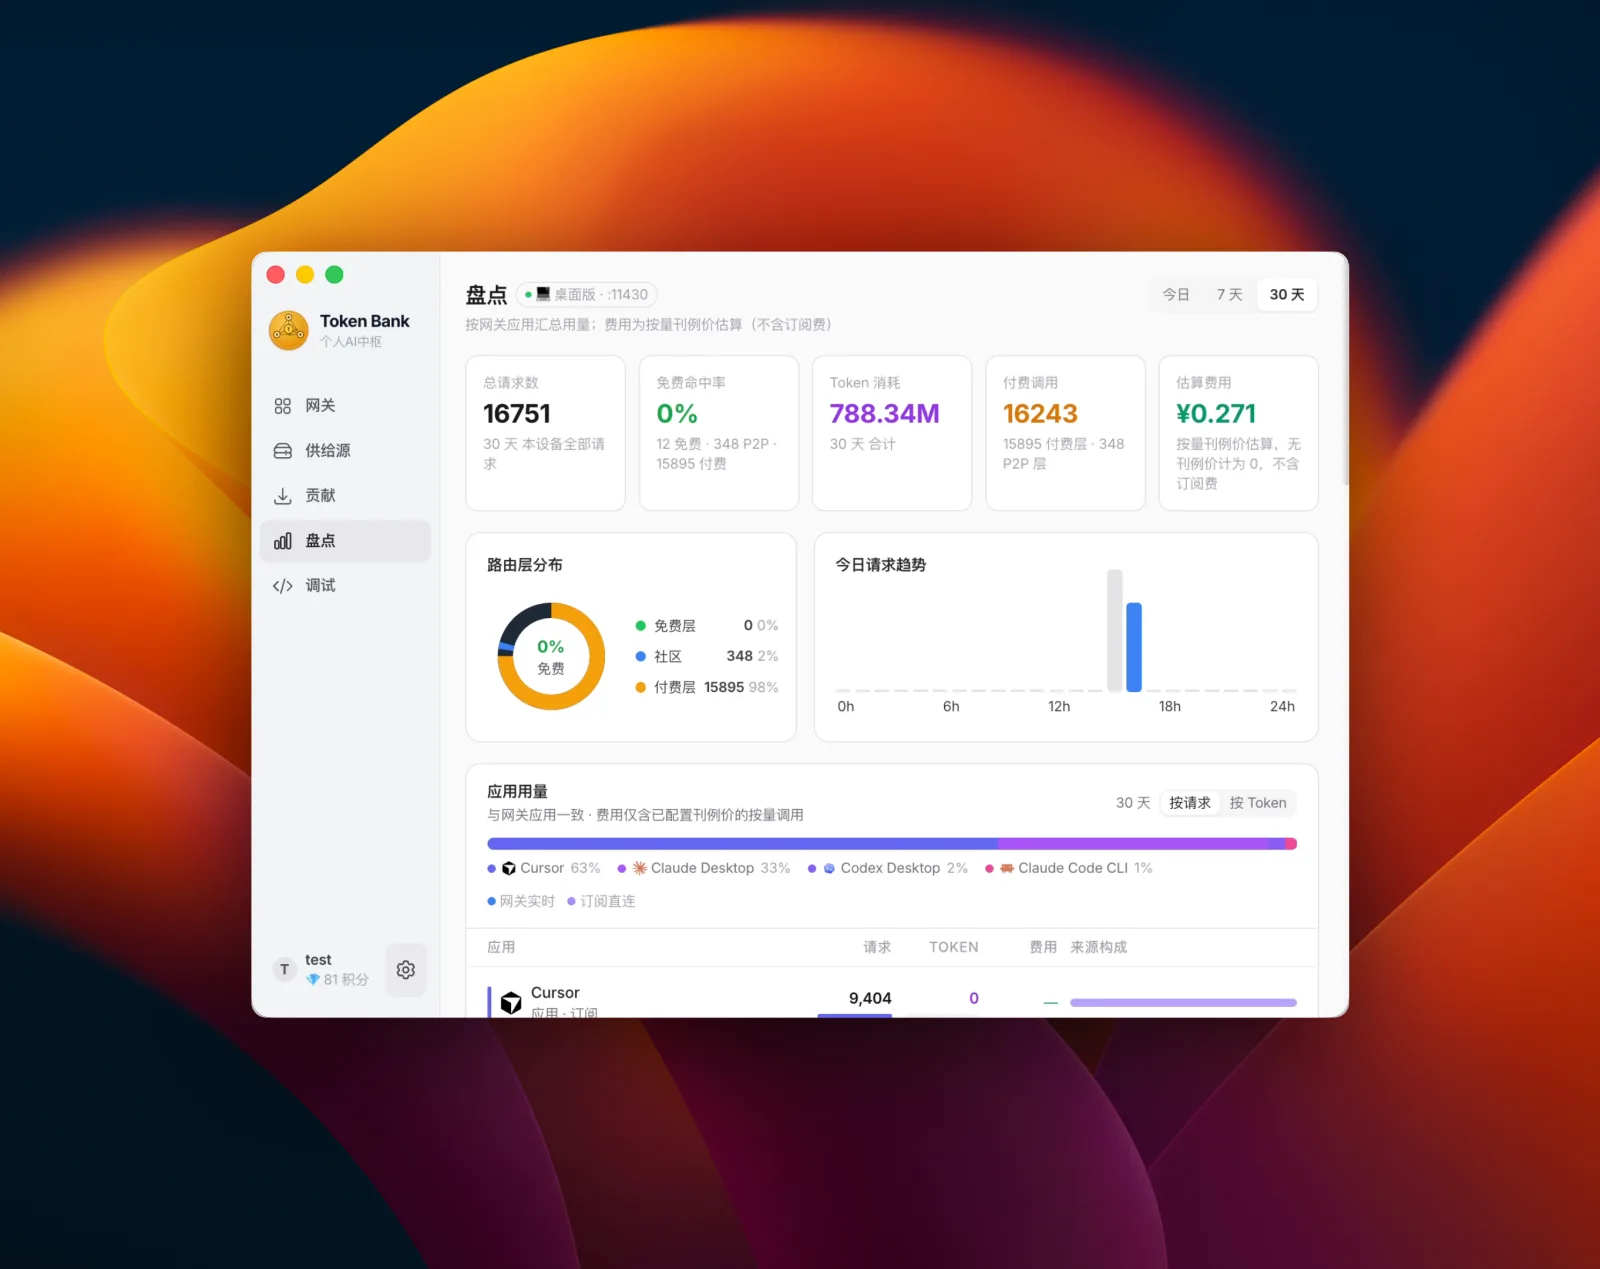
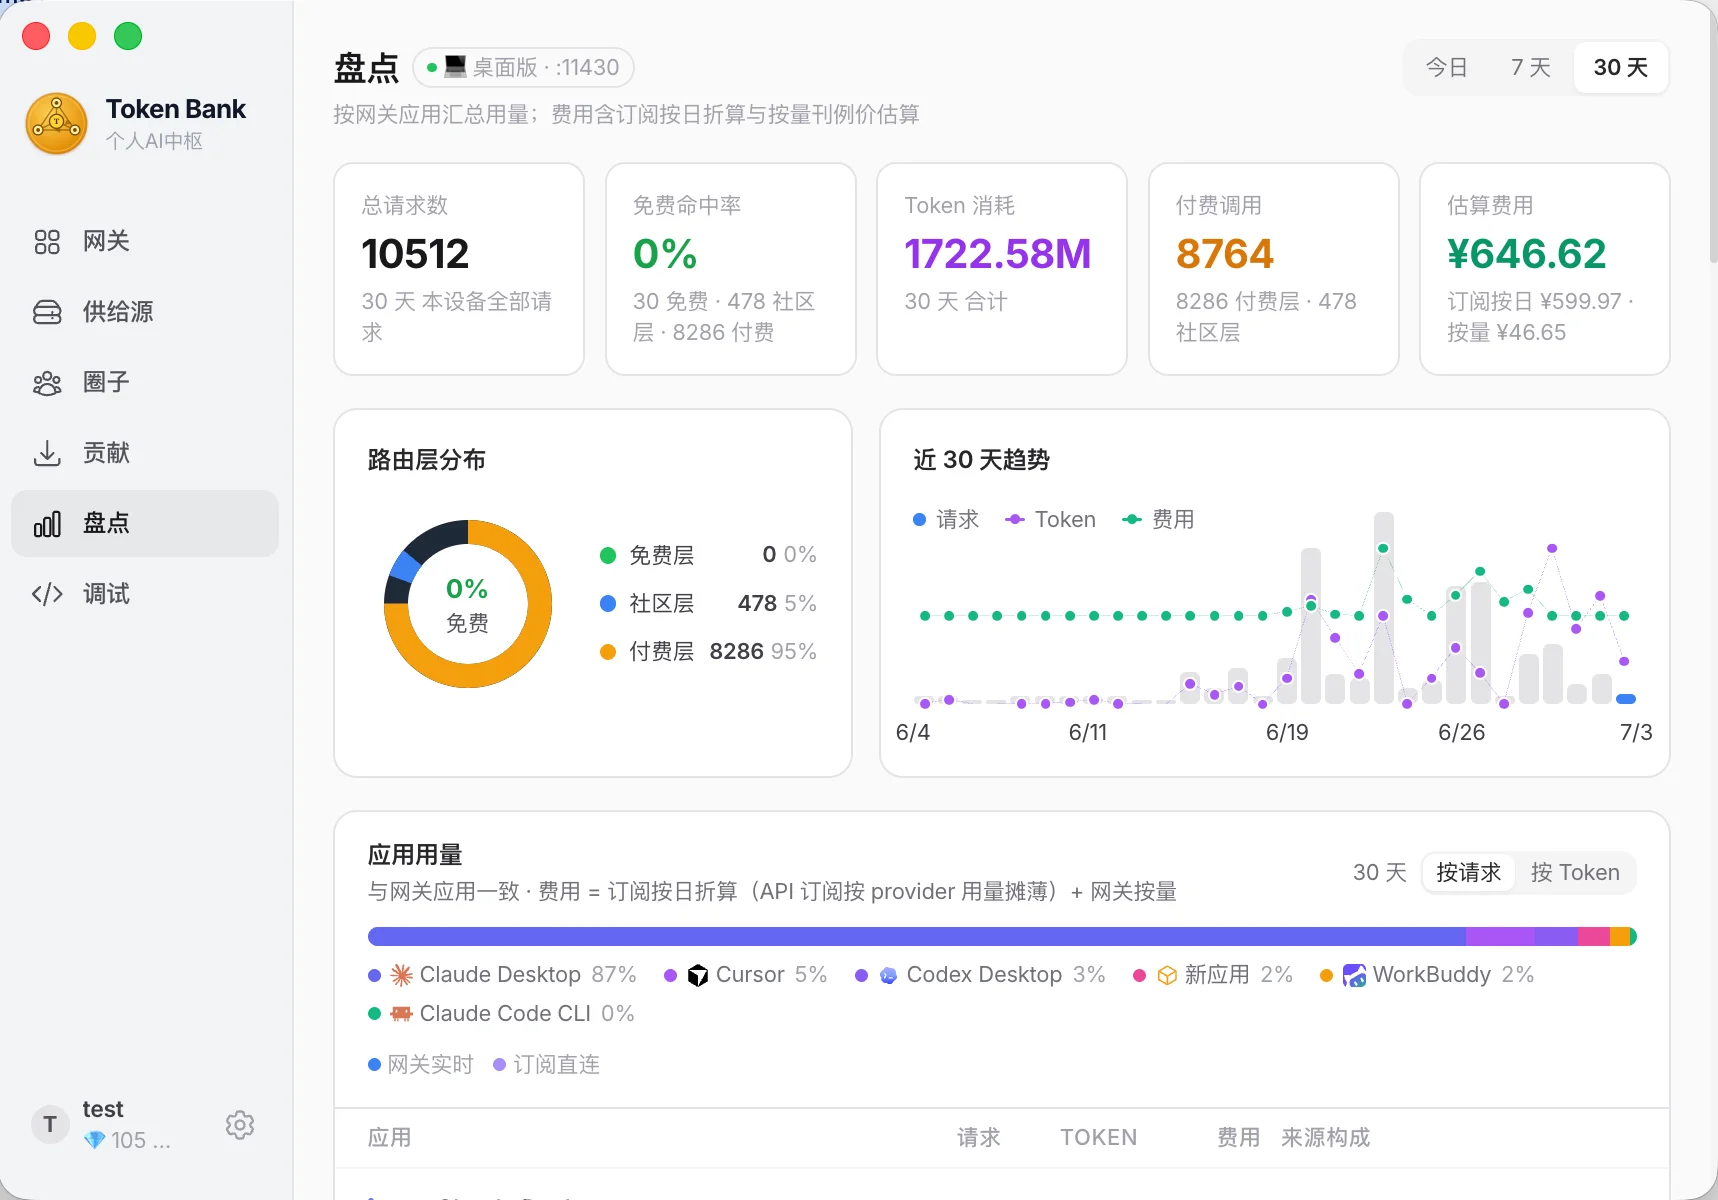
更新 landing 页 hero 截图，扩展产品预览 tab 并替换新版 webp。

diff --git a/server/static/landing.html b/server/static/landing.html
@@ -38,6 +38,10 @@
     .tb-app-row { animation: none !important; }
   }
   #tb-hero-dashboard { transition: opacity .35s ease; }
+  /* hero 截图 tab 较多时横向滚动 */
+  #tb-tabs { overflow-x: auto; scrollbar-width: none; -webkit-overflow-scrolling: touch; }
+  #tb-tabs::-webkit-scrollbar { display: none; }
+  #tb-tabs [data-tab] { flex-shrink: 0; white-space: nowrap; }
   .tb-faq[open] .tb-faq-mark { transform: rotate(45deg); background: #FFD055; }
   @keyframes tbPacket { 0% { top: -6px; opacity: 0; } 12% { opacity: 1; } 88% { opacity: 1; } 100% { top: 44px; opacity: 0; } }
   @keyframes tbPulse { 0%,100% { box-shadow: 0 0 0 0 rgba(224,138,0,0); } 50% { box-shadow: 0 0 0 8px rgba(224,138,0,0.10); } }
@@ -133,10 +137,14 @@
               <span style="width:11px;height:11px;border-radius:50%;background:#e6e2df;"></span>
               <span style="width:11px;height:11px;border-radius:50%;background:#e6e2df;"></span>
             </div>
-            <div id="tb-tabs" style="display:flex;gap:6px;align-items:center;">
-              <span data-tab="dashboard" style="font-size:13px;font-weight:500;color:#000;background:#f5f2f0;padding:5px 12px;border-radius:8px;cursor:pointer;">Dashboard</span>
-              <span data-tab="gateway" style="font-size:13px;color:#7b7b7b;padding:5px 12px;border-radius:8px;cursor:pointer;">Gateway</span>
-              <span data-tab="provider" style="font-size:13px;color:#7b7b7b;padding:5px 12px;border-radius:8px;cursor:pointer;">Providers</span>
+            <div id="tb-tabs" style="display:flex;gap:4px;align-items:center;min-width:0;flex:1;">
+              <span data-tab="dashboard" data-i18n="hero.tab.dashboard" style="font-size:12px;font-weight:500;color:#000;background:#f5f2f0;padding:4px 10px;border-radius:8px;cursor:pointer;">Dashboard</span>
+              <span data-tab="gateway" data-i18n="hero.tab.gateway" style="font-size:12px;color:#7b7b7b;padding:4px 10px;border-radius:8px;cursor:pointer;">Gateway</span>
+              <span data-tab="provider" data-i18n="hero.tab.provider" style="font-size:12px;color:#7b7b7b;padding:4px 10px;border-radius:8px;cursor:pointer;">Providers</span>
+              <span data-tab="contribute" data-i18n="hero.tab.contribute" style="font-size:12px;color:#7b7b7b;padding:4px 10px;border-radius:8px;cursor:pointer;">Contribute</span>
+              <span data-tab="circle" data-i18n="hero.tab.circle" style="font-size:12px;color:#7b7b7b;padding:4px 10px;border-radius:8px;cursor:pointer;">Circles</span>
+              <span data-tab="world" data-i18n="hero.tab.world" style="font-size:12px;color:#7b7b7b;padding:4px 10px;border-radius:8px;cursor:pointer;">Network</span>
+              <span data-tab="device" data-i18n="hero.tab.device" style="font-size:12px;color:#7b7b7b;padding:4px 10px;border-radius:8px;cursor:pointer;">Devices</span>
             </div>
             <span style="margin-left:auto;font-family:'Space Mono',monospace;font-size:12px;color:#bcbcbc;">localhost:11430</span>
           </div>
@@ -823,6 +831,8 @@ class Component extends DCLogic {
     'hero.sub': '一个本地网关接管全部 AI 应用——追踪每个 token，智能路由省更多，把闲置额度变成积分。你的工具只指向一个本地地址，路由全程透明。',
     'hero.ctaPrimary': '免费下载', 'hero.ctaSecondary': '在 GitHub 查看',
     'hero.meta': 'macOS · Windows · Linux　·　Apache-2.0 开源',
+    'hero.tab.dashboard': '盘点', 'hero.tab.gateway': '网关', 'hero.tab.provider': '供给源',
+    'hero.tab.contribute': '贡献', 'hero.tab.circle': '圈子', 'hero.tab.world': '网络', 'hero.tab.device': '设备',
     'trust.label': '已与你正在用的主流 AI 应用协同',
     'stat.1': '一个本地端口<br>接管全部 AI 应用',
     'stat.2': '种协议自动转换<br>Anthropic · OpenAI · Codex',
@@ -970,7 +980,7 @@ class Component extends DCLogic {
 
     // hero tab switching（含自动轮播）
     const tabs = root.querySelector('#tb-tabs');
-    const TAB_KEYS = ['dashboard', 'gateway', 'provider'];
+    const TAB_KEYS = ['dashboard', 'gateway', 'provider', 'contribute', 'circle', 'world', 'device'];
     const switchHeroTab = (key) => {
       if (!tabs) return;
       const lang = this.state.lang || 'en';

diff --git a/server/server.py b/server/server.py
@@ -68,6 +68,11 @@ async def lifespan(app: FastAPI):
 _LANDING_SCREENSHOTS = frozenset({
     "dashboard.webp", "gateway.webp", "provider.webp",
     "dashboard_en.webp", "gateway_en.webp", "provider_en.webp",
+    "contribute.webp", "contribute_en.webp",
+    "circle.webp", "circle_en.webp",
+    "world.webp", "world_en.webp",
+    "device.webp", "device_en.webp",
+    "trace_en.webp",
 })
 
 
